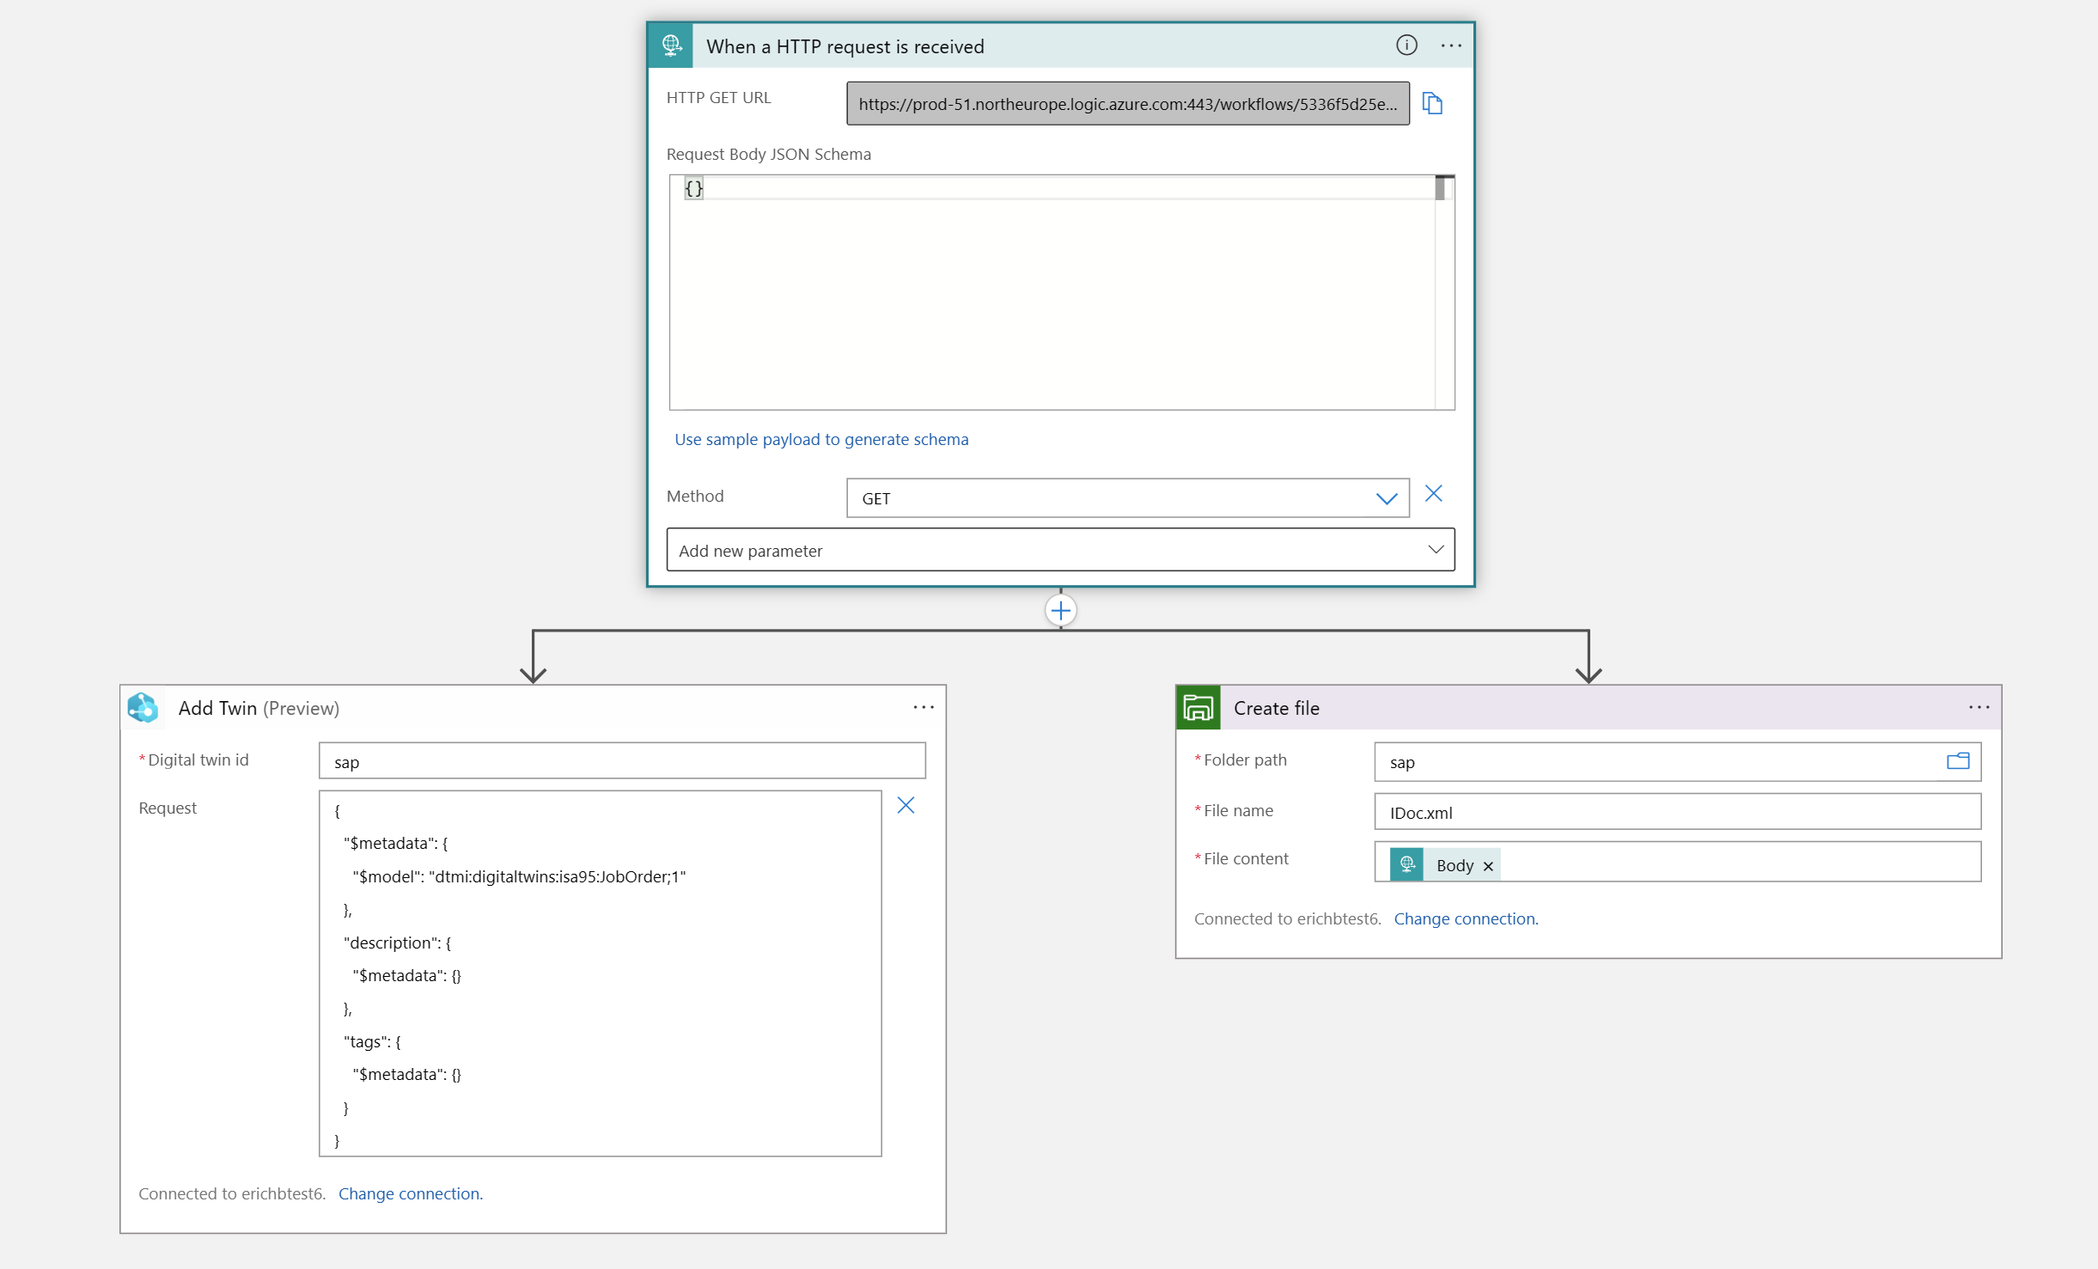
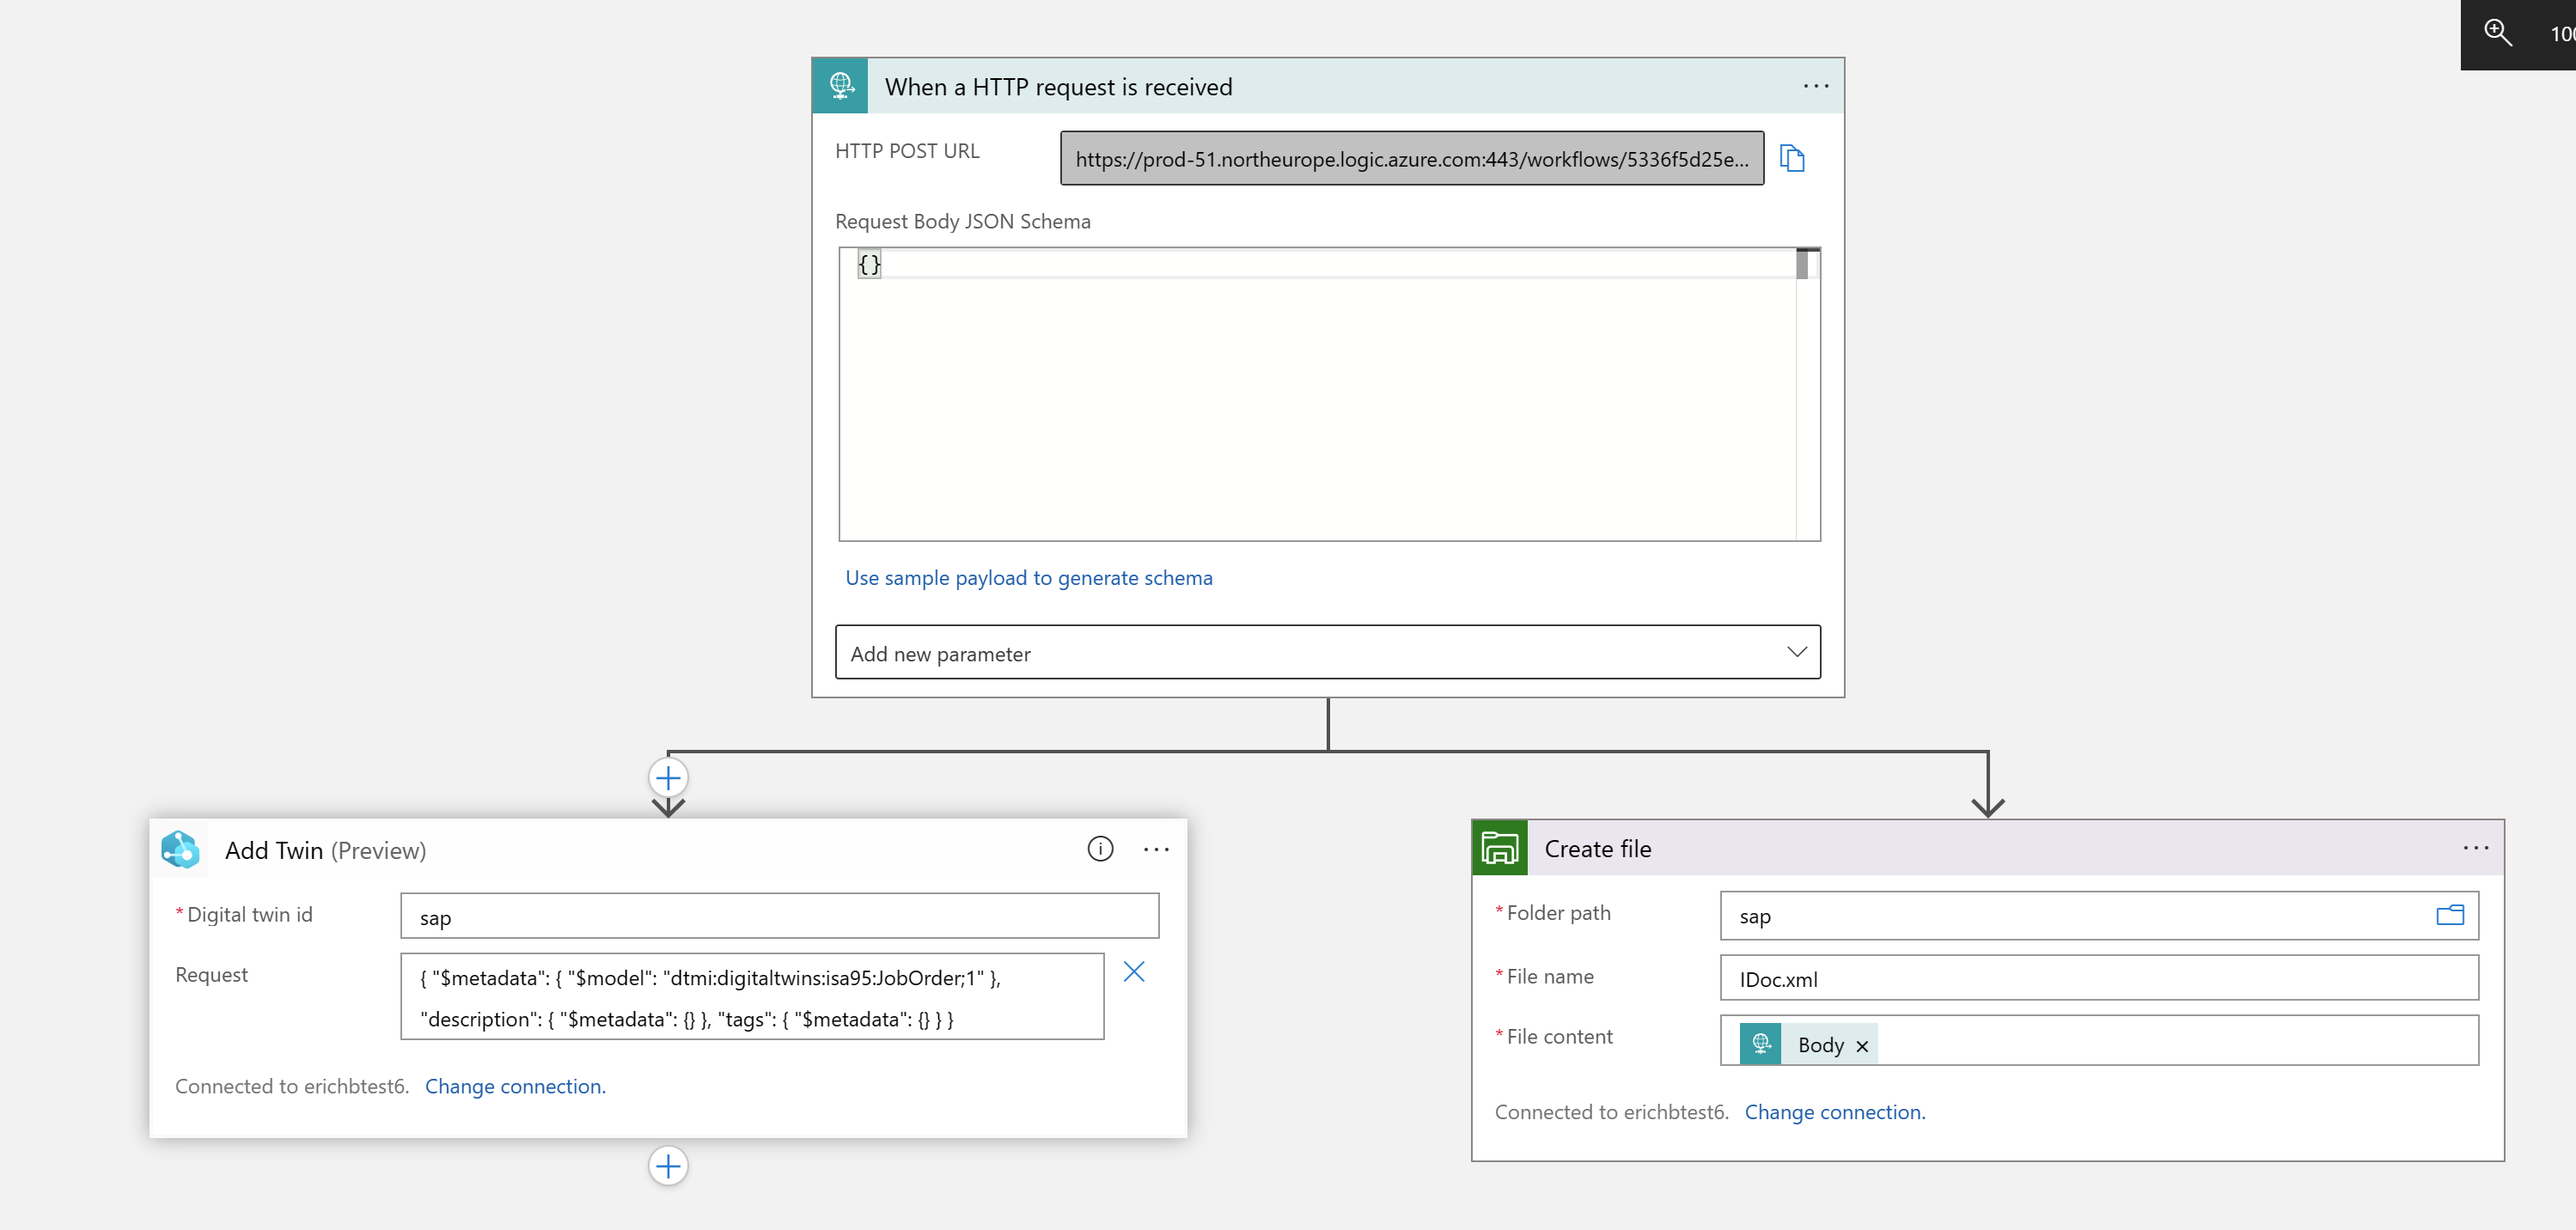
Fix errors in SAP steps.

diff --git a/README.md b/README.md
@@ -477,7 +477,6 @@ To create a new Azure Logic Apps workflow from your on-premises SAP system to Az
 1. Deploy an instance of Azure Logic Apps in the same region you picked during deployment of this reference solution via the Azure Portal. Select the consumption-based version.
 1. Once deployed, go to the resource, select `Identity` and enable `System assigned`. Click on `Azure Role Assignments` -> `Add role assignment`. Select `Resource Group` for `Scope`, your subscription name for `Subscription`, the resource group you have picked during the deployment of this reference solution for `Resource Group` and `Azure Digital Twin Data Owner` for `Role`. Click `Save`.
 1. From the Azure Logic App Designer, select the trigger template `When a HTTP request is received`.
-1. From within your new trigger, select `Add new parameter`, select `Method` and then select `Get`. You need this as SAP systems send Get requests via HTTP.
 1. Select `+ New step`, select `Azure File Storage` and select `Create file`. Give the connection a name and select the storage account name of the Azure Storage Account deployed for this reference solution. For `Folder path`, enter `sap`, for `File name` enter `IDoc.xml` and for `File content` select `Body` from the dynamic content. In the Azure Portal, navigate to your storage account deployed in this reference solution, select `Storage browser`, select `File shares` and select `Add file share`. Enter `sap` for the name and select `Create`.
 1. Hover over the arrow between your trigger and your create file action, select the `+` button and select `Add a parallel branch`. Select `Azure Digital Twins` and add the action `Add Twin` from the list of Azure Digital Twins actions available. Specify the ADT instance (host) name of your Azure Digital Twins service instance deployed in this reference solution. Click the `Connect with managed identity` field, give it a name, specify the ADT instance (host) name of your Azure Digital Twins service instance deployed in this reference solution in the `ADT Instance Name` field and make sure `System-assigned managed identity` is selected for `Managed identity`. Click `Create`. Click on the `Digital twin id` field and enter `sap`. Then select `Add new parameter` and select `Request`. In the new Request field, enter  `{ "$metadata": { "$model": "dtmi:digitaltwins:isa95:JobOrder;1" }, "description": { "$metadata": {} }, "tags": { "$metadata": {} } }`.
 1. Save your workflow.
@@ -492,21 +491,20 @@ Copy the `HTTP GET URL` from your HTTP trigger in your workflow. You will need i
 
 ### Configuring Your On-Premises SAP System to Send Data to Azure Logic Apps
 
-1. Create a new HTTP connection for your Azure Logic App in your SAP system by entering `SM59` from the SAP system's search box, which will bring up the `Configuration of RFC Connections` screen. Select `Edit`->`Create`, enter `LOGICAPP` in the `Destination` field and select `HTTP Connection to external server` in the `Connection Type` dropdown. Click the green check button. Enter `LOGICAPP` under `Description`. Under `Technical Settings` enter the **hostname** of your Logic App `HTTP GET URL` copied earlier (e.g. `prod-51.northeurope.logic.azure.com`), under `Port` enter `443` and under `Path Prefix` enter the rest of your `HTTP GET URL` copied earlier starting with `/workflows/...`. In the `Logon & Security` tab, scroll down to `Security Options` and set `SSL` to `Active`. Click the `Save` button, followed by the `Connection Test` button. Accept the warning popup and then you should see a response code of `202` from your Azure Logic App.
+1. Create a new HTTP connection for your Azure Logic App in your SAP system by entering `SM59` from the SAP system's search box, which will bring up the `Configuration of RFC Connections` screen. Select `Edit`->`Create`, enter `LOGICAPP` in the `Destination` field and select `HTTP Connection to external server` in the `Connection Type` dropdown. Click the green check button. Enter `LOGICAPP` under `Description`. Under `Technical Settings` enter the hostname of your Logic App `HTTP GET URL` copied earlier (e.g. `prod-51.northeurope.logic.azure.com`), under `Port` enter `443` and under `Path Prefix` enter the rest of your `HTTP GET URL` copied earlier starting with `/workflows/...`. In the `Logon & Security` tab, scroll down to `Security Options` and set `SSL` to `Active`. Click the `Save` button.
 1. Create a new port for your Azure Logic App in your SAP system by entering `WE21` from the SAP system's search box, which will bring up the `Ports in IDoc processing` screen. Select the `XML HTTP` folder. Click on the `Create` button. In the `Port` field enter `LOGICAPP`. In the `RFC destination` select `LOGICAPP`. Click the `Save` button.
-1. Create a logical system partner for your Azure Logic App in your SAP system by entering `BD54` from the SAP system's search box, which will bring up the `Change View "Logical Systems" Overview` screen. Click the green check button to get past the inital warning. Click on the `New Entries` button. For `Log.System` enter `LA`. For `Name of Logical System` enter `LOGICAPP`. Click the `Save` button. In the `Prompt for workbench request` dialog, click the `Create` button. In the `Create request` dialog, enter `LOGICAPP` for `Short Description`. Under `Owner` enter your SAP username. Click the `Save` button. Click the green check button.
-1. Create a partner profile for your Azure Logic App in your SAP system by entering `WE20` from the SAP system's search box, which will bring up the `Partner profiles` screen. Expand the `Partner Profiles` folder and select the `Partner Type LS` (Logical System) folder. Click on the `Create` button. For `Partner No.` enter `LA`. For `Partn.Type` enter `LS`. In the `Post Processing: Valid Processors` tab, for `Ty.` enter `US` and for `Agent` enter your SAP username. Click the `Save` button. Click on the `Create Outbound Parameter` button. In the `Partner Profiles: Outbound Parameters` dialog, enter `/ISDFPS/CREMAS` for `Message Type` (or another message type you choose). In the `Outbound Options` tab, enter `LOGICAPP` for `Receiver port`. Select the `Pass IDoc Immediately` radio button. For '`Basic type` enter `/ISDFPS/CREMAS04` (or another basic type you choose). Click the `Save` button.
+1. Create a partner profile for your Azure Logic App in your SAP system by entering `WE20` from the SAP system's search box, which will bring up the `Partner profiles` screen. Expand the `Partner Profiles` folder and select the `Partner Type LS` (Logical System) folder. Click on the `S4HCLNT100` partner profile. Click on the `Create Outbound Parameter` button below the `Outbound` table. In the `Partner Profiles: Outbound Parameters` dialog, enter `INTERNAL_ORDER` for `Message Type`. In the `Outbound Options` tab, enter `LOGICAPP` for `Receiver port`. Select the `Pass IDoc Immediately` radio button. For `Basic type` enter `INTERNAL_ORDER01`. Click the `Save` button.
 
 
 ### Testing your SAP to Azure Logic App Workflow
 
 To try out your SAP to Azure Logic App workflow, follow these steps:
 
-Enter `WE19` from the SAP system's search box, which will bring up the `Configuration of RFC Connections` screen. Select the `Using message type` radio button and enter `/ISDFPS/CREMAS`. Click on the `Create` button. Click on the `EDICC` field. In the `Edit Control Record Fields` dialog, enter `LOGICAPP` for `Receiver Port`. Click the green check button. Click on the `Standard Outbound Processing` button. In the `Outbound Processing of IDoc` dialog, click the green check button to start the IDoc message processing.
+Enter `WE19` from the SAP system's search box, which will bring up the `Test Tool for IDoc Processing` screen. Select the `Using message type` radio button and enter `INTERNAL_ORDER`. Click on the `Create` button. Click on the `EDICC` field. In the `Edit Control Record Fields` dialog, enter `LOGICAPP` for `Receiver Port`, `S4HCLNT100` for `Receiver Partner No.` and `LS` for `Receiver Part. Type`. Similarily, enter `SAPS4H` for `Sender Port`, `S4HCLNT100` for `Sender Partner No.` and `LS` for `Sender Part. Type`. Click the green check button. Click on the `Standard Outbound Processing` button. In the `Outbound Processing of IDoc` dialog, click the green check button to start the IDoc message processing.
 
-Open the Azure Digital Twins Explorer from the Azure Digital Twins service instance planel in the Azure Portal and check that new job order digital twins are created.
+Open the Azure Digital Twins Explorer from the Azure Digital Twins service instance planel in the Azure Portal and check that new job order digital twin called `sap` is created. Similarily, you can open the Storage browser of your Azure Storage Account, select Files shares and check that a new `IDoc.xml` file was created in the `sap` folder.
 
-Note: To check for IDoc message processing errors, entering `WE09` from the SAP system's search box, select a time range and click the `execute` button. This will bring up the `IDoc Search for Business Content` screen.
+Note: To check for IDoc message processing errors, entering `WE09` from the SAP system's search box, select a time range and click the `execute` button. This will bring up the `IDoc Search for Business Content` screen and you can select each IDoc for processing errors in the table displayed.
 
 
 ### Microsoft On-Premises Data Gateway
